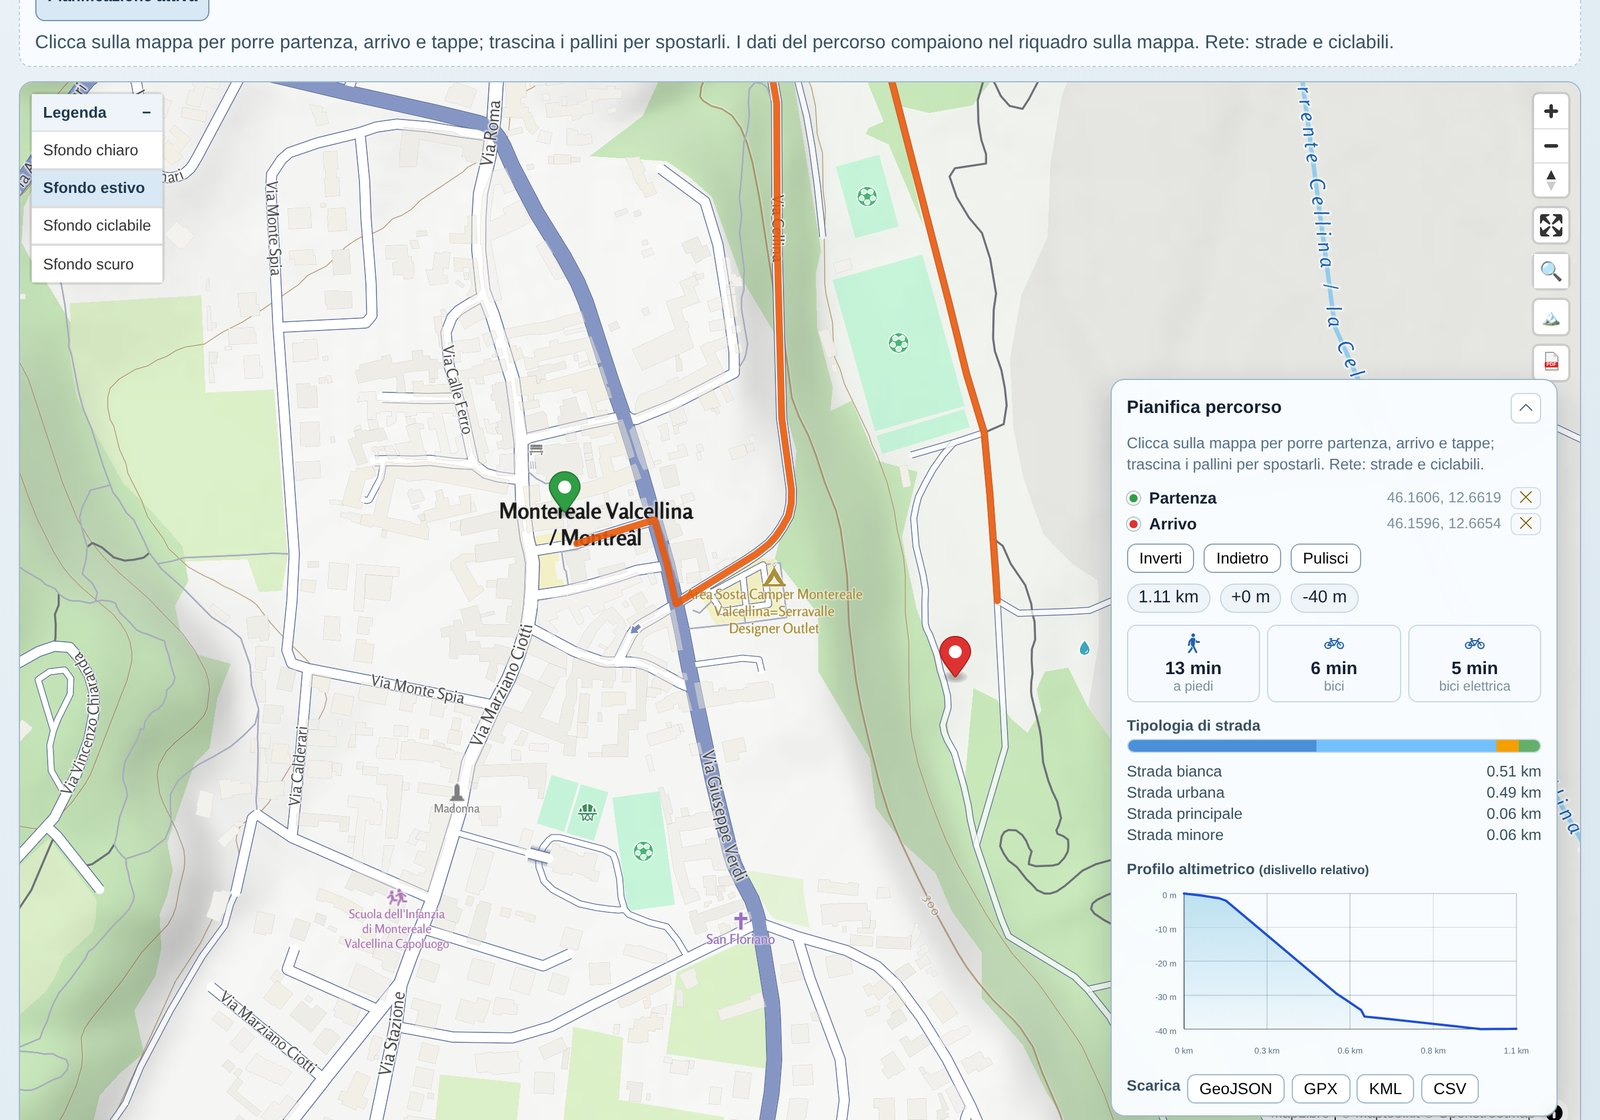
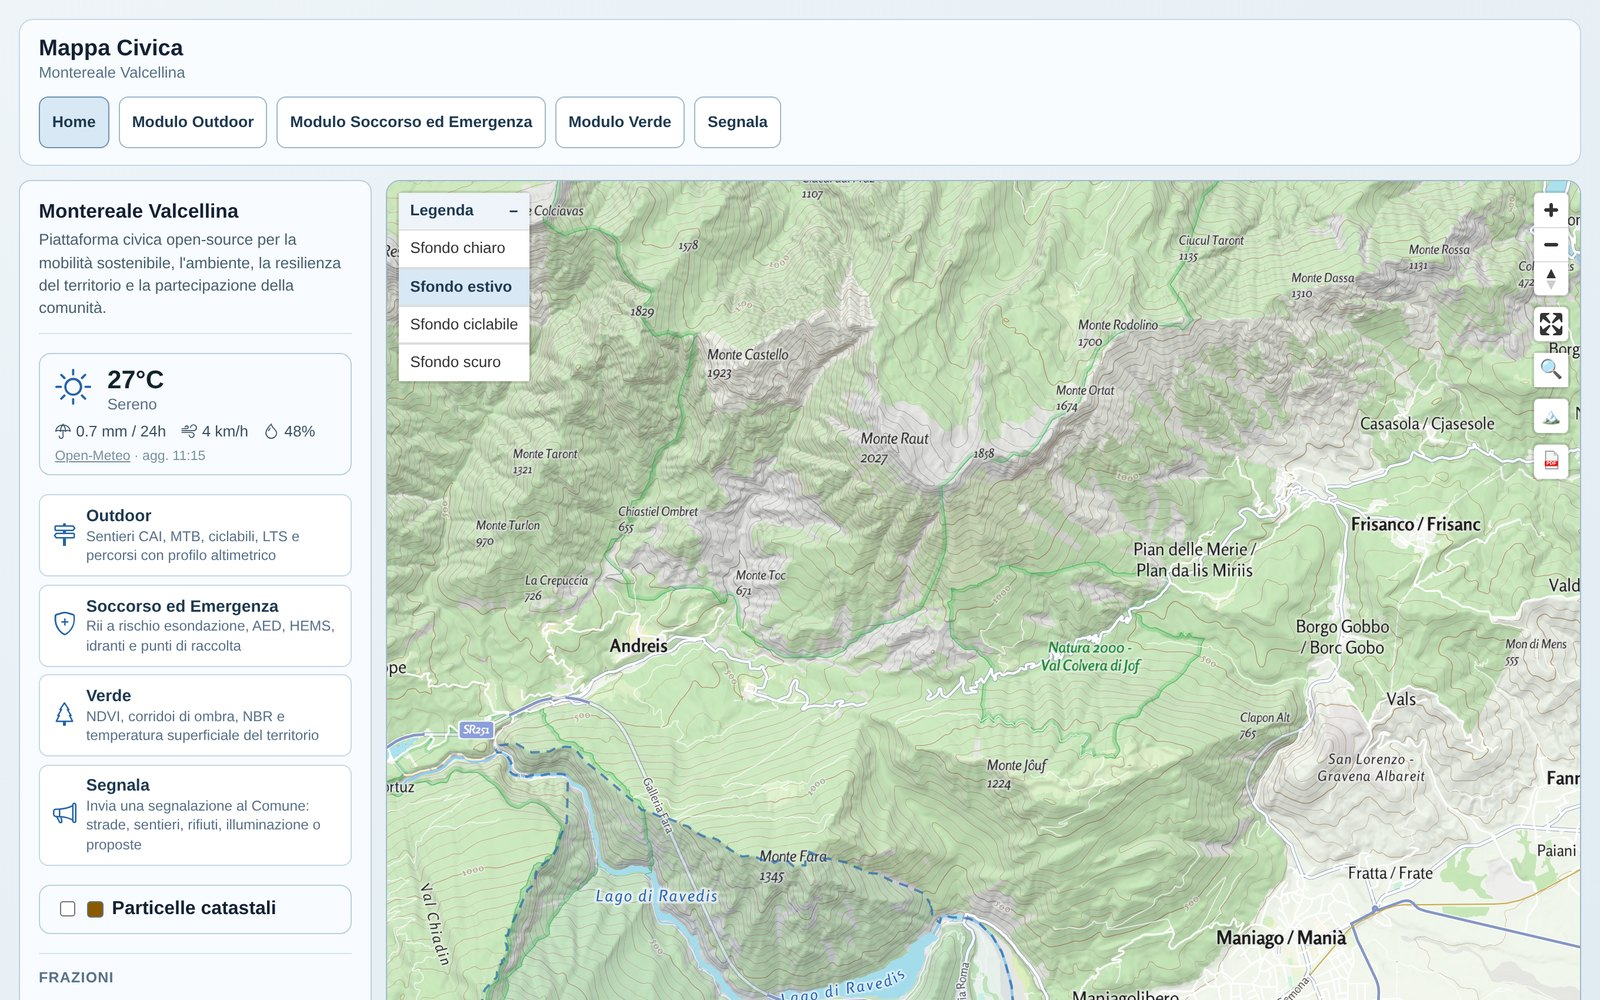
CI: weekly auto-refresh of fire and cadastral data; README screenshot is Home
- refresh-data.yml weekly run is now `make rescue fire catasto cyclepaths`,
  and fire/catasto are selectable in the manual dispatch.
- Dropped [skip ci] from the auto-refresh commit so refreshed layers deploy.
- docs/screenshot.jpg is now the Home panel + overview map.

diff --git a/README.md b/README.md
@@ -83,7 +83,7 @@ Everything comune-specific (name, OSM area, ISTAT code, municipal boundary, fraz
 Static build published on GitHub Pages.
 
 - `.github/workflows/deploy.yml`: builds and deploys on every push to `main`, also triggerable manually
-- `.github/workflows/refresh-data.yml`: scheduled pipeline runs, committed back to the repo: weekly (`make rescue cyclepaths`), monthly (`make base community`), or manual for any target
+- `.github/workflows/refresh-data.yml`: scheduled pipeline runs, committed back to the repo and then auto-deployed: weekly (`make rescue fire catasto cyclepaths`), monthly (`make base community`), or manual for any target
 
 ---
 
